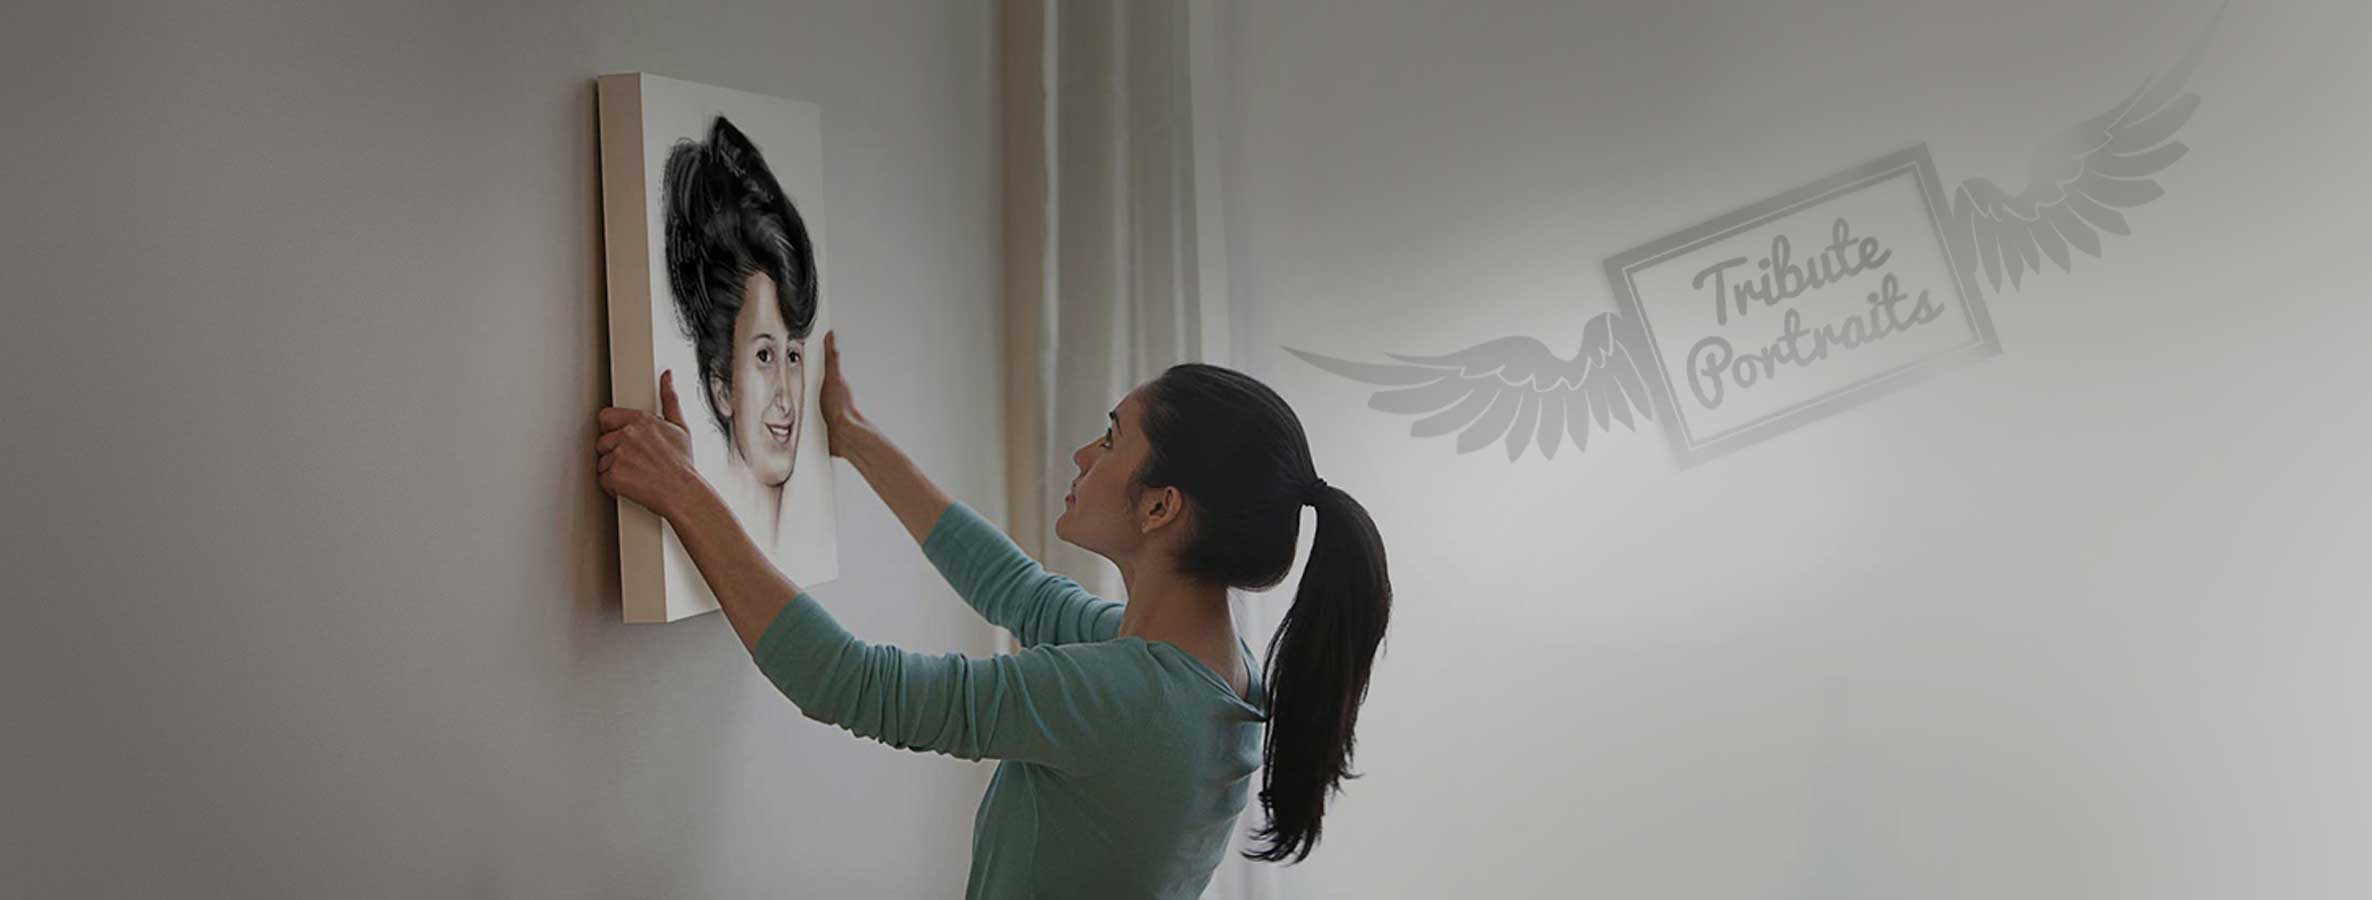
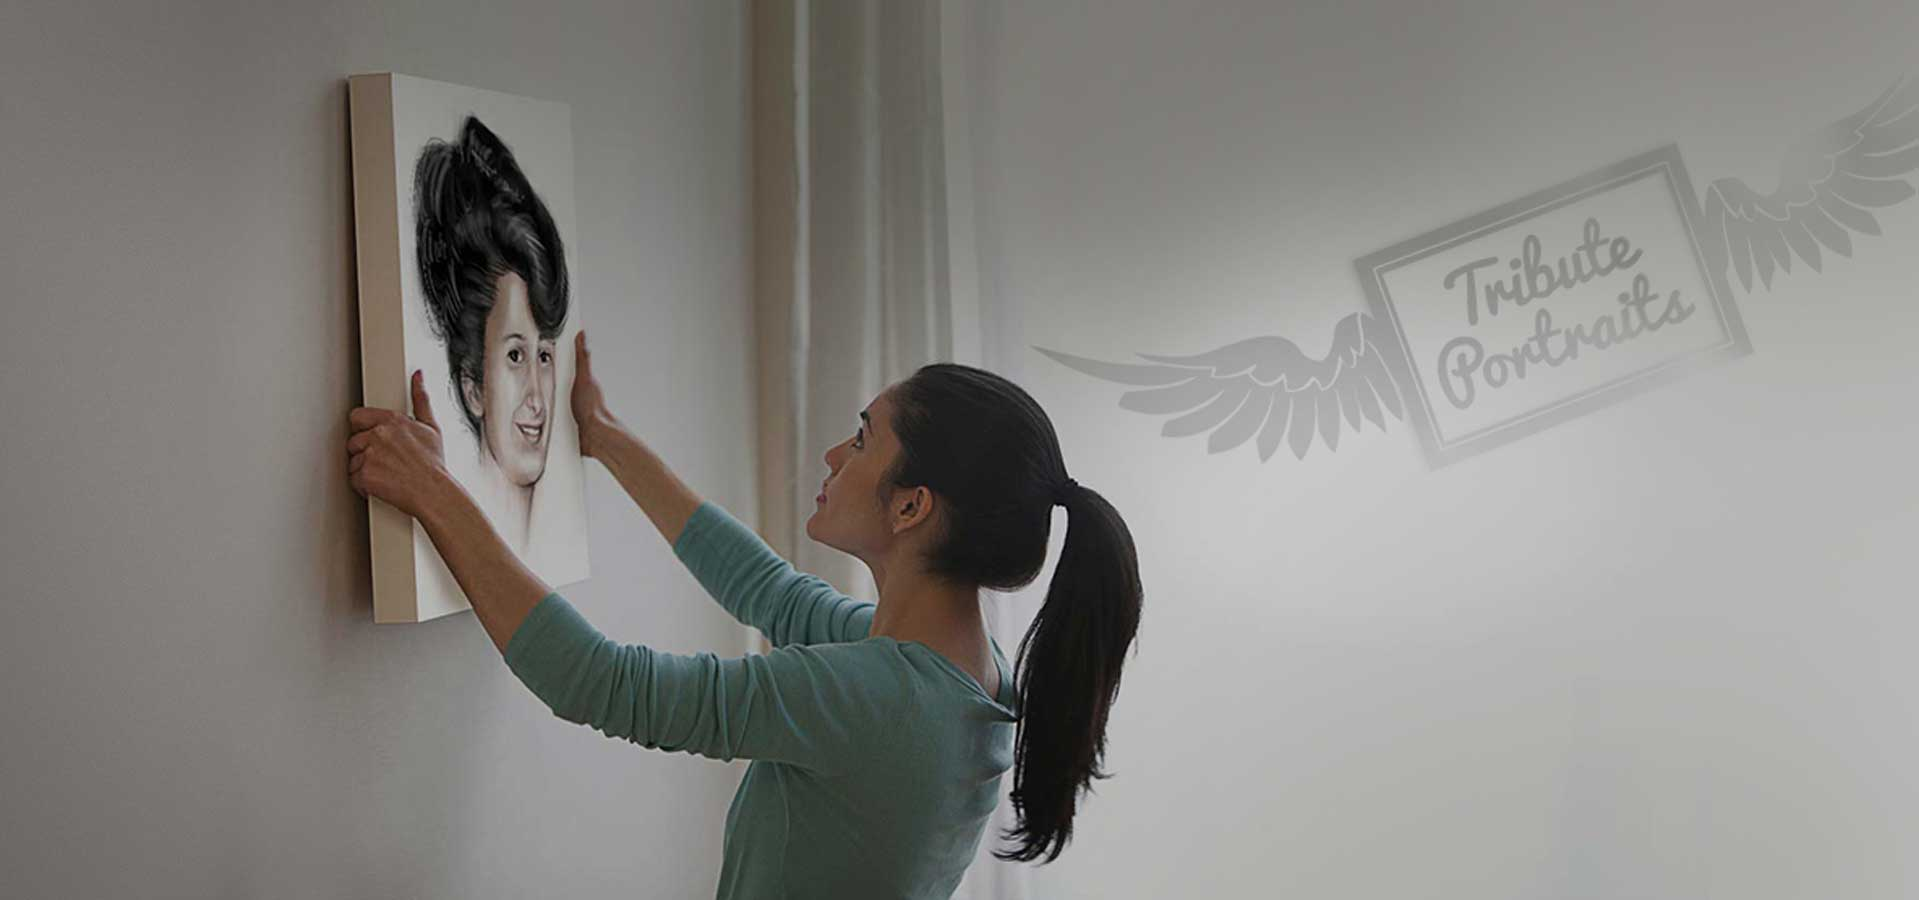
knkn

diff --git a/unit_6/css/style.css b/unit_6/css/style.css
@@ -51,10 +51,10 @@ nav a:hover {
 header {
 
 	background-image: url(http://scherma72.github.io/unit_6/images/2372x900px-hero.jpg);
-	background-position: right;
-    background-position-x: 90%;
-    background-position-y: 0%;
+	position: relative;
+    background-position: right;
     background-size: cover;
+
 
 }
 
